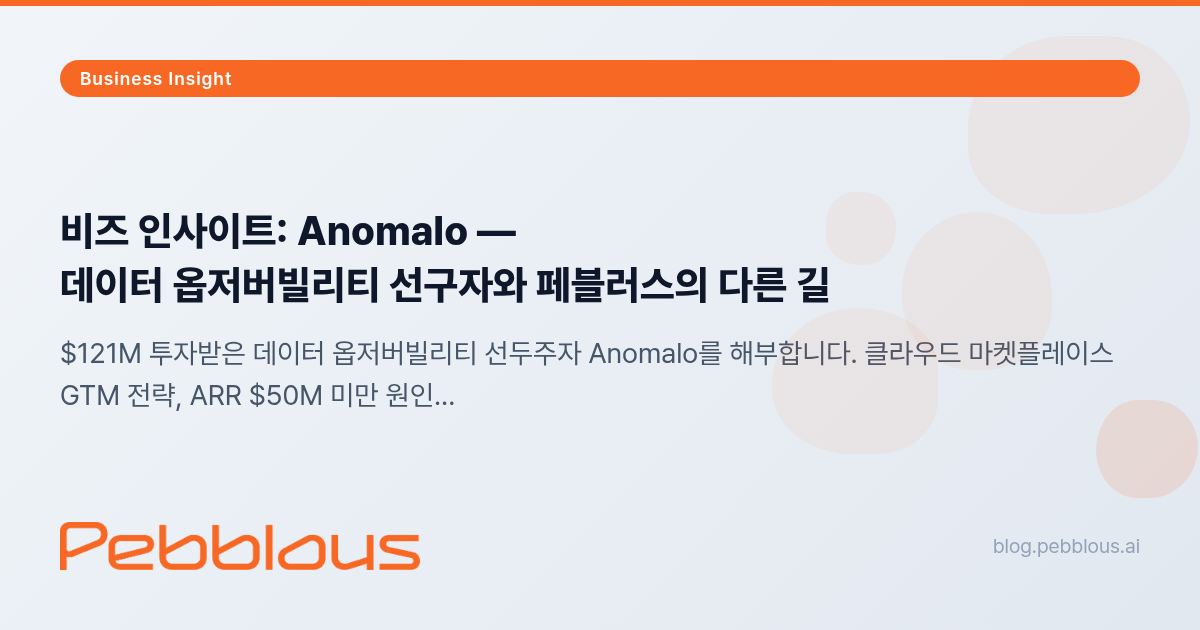
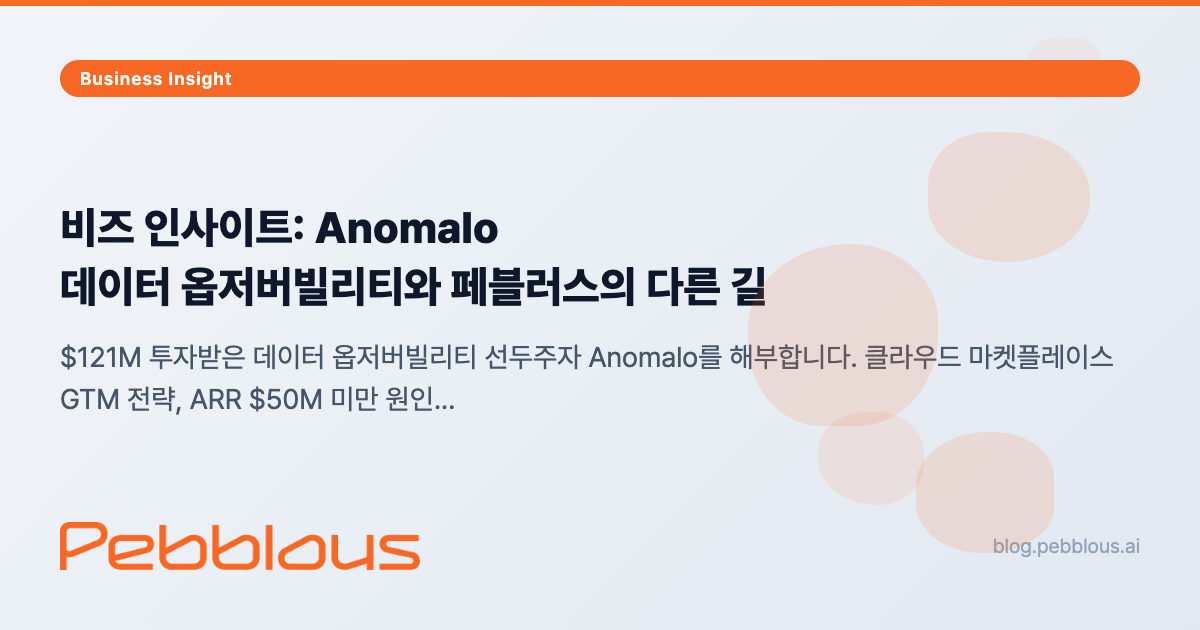
fix: BizReport Anomalo·Shelf.io OG 이미지 줄바꿈 수정 — og-image-title 추가
- Anomalo: "옵저버빌리티" 단어 중간 줄바꿈 → 수동 2줄 분리
- Shelf.io: "수평 플랫폼 딜레마와" 줄바꿈 → 수동 2줄 분리

diff --git a/project/BizReport/anomalo-analysis-01/ko/index.html b/project/BizReport/anomalo-analysis-01/ko/index.html
@@ -21,6 +21,7 @@
     <!-- Open Graph -->
     <meta property="og:type" content="article">
     <meta property="og:url" content="https://blog.pebblous.ai/project/BizReport/anomalo-analysis-01/ko/">
+    <meta name="og-image-title" content="비즈 인사이트: Anomalo&#10;데이터 옵저버빌리티와 페블러스의 다른 길">
     <meta property="og:title" content="비즈 인사이트: Anomalo — 데이터 옵저버빌리티 선구자와 페블러스의 다른 길 | Pebblous">
     <meta property="og:description" content="$121M 투자받은 데이터 옵저버빌리티 선두주자 Anomalo를 해부합니다. 클라우드 마켓플레이스 GTM 전략, ARR $50M 미만 원인, 그리고 페블러스가 나아갈 다른 길.">
     <meta property="og:image" content="https://blog.pebblous.ai/project/BizReport/image/anomalo-analysis-01.png">

diff --git a/project/BizReport/shelf-io-analysis-01/ko/index.html b/project/BizReport/shelf-io-analysis-01/ko/index.html
@@ -22,6 +22,7 @@
     <!-- Open Graph -->
     <meta property="og:type" content="article">
     <meta property="og:url" content="https://blog.pebblous.ai/project/BizReport/shelf-io-analysis-01/ko/">
+    <meta name="og-image-title" content="비즈 인사이트: Shelf.io&#10;수평 플랫폼 딜레마와 수직 전략">
     <meta property="og:title" content="비즈 인사이트: Shelf.io — 수평 플랫폼 딜레마와 페블러스의 수직 전략 | Pebblous">
     <meta property="og:description" content="$60.7M 투자에도 ARR $50M 미달인 Shelf.io를 해부합니다. 수평 KM 딜레마, DataClinic과의 카테고리 차이, 수직 집중 전략의 자본 효율성.">
     <meta property="og:image" content="https://blog.pebblous.ai/project/BizReport/image/shelf-io-analysis-01.png">
